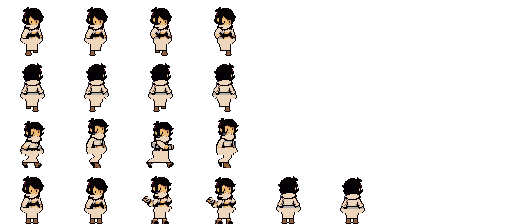
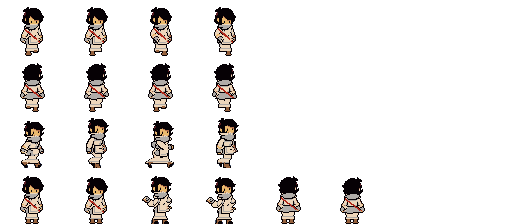
NPC: potongan baju berbeda-beda (rompi, zirah, selempang, overall, celemek, rok, celana)
Claude-Session: https://claude.ai/code/session_013SaXTJuwinpA9vu4txrWbT

diff --git a/tools/npc_from_mc.py b/tools/npc_from_mc.py
@@ -16,34 +16,35 @@ K = {'hitam': (6, 1, 5), 'marun': (90, 24, 33), 'merah': (177, 39, 26), 'zaitun'
      'biru': (62, 85, 128), 'birutua': (45, 49, 97), 'kulit': (240, 194, 113), 'oranye': (207, 115, 69), 'mawar': (172, 74, 74),
      'krem': (237, 214, 187), 'abu': (176, 172, 168), 'abutua': (98, 96, 104), 'coklat': (150, 98, 62)}
 
-# id: rambut (terang, gelap), baju (utama, bayangan), sepatu, + pilihan pakaian:
-#   rok = baju menutup kaki atas (perempuan / jubah), syal = syal tokoh utama dipertahankan (warna), celemek = warna celemek,
-#   topi = (warna, lebar pinggir) menutup puncak rambut; helm = warna menutup rambut hingga dahi.
+# id: rambut (terang, gelap), baju (utama, bayangan), sepatu, + pakaian:
+#   gaya = kemeja | rompi (warna `rompi`) | zirah | selempang (warna `aksen`) | overall (warna `aksen`) | kancing
+#   celana, kerah, sabuk, celemek = warna;  rok = 'pendek' | 'panjang' (gaun/jubah)
+#   topi = (warna, lebar pinggir);  helm = warna tudung yang menutup rambut
 NPC = {
-    'ac1':   dict(rambut=('birutua', 'hitam'), baju=('biru', 'birutua'), sepatu='birutua', rok=True, syal='zaitun'),
-    'ac2':   dict(rambut=('coklat', 'marun'), baju=('biru', 'birutua'), sepatu='coklat'),
-    'ar1':   dict(rambut=('krem', 'abu'), baju=('coklat', 'marun'), sepatu='marun', rok=True),
-    'bw1':   dict(rambut=('birutua', 'hitam'), baju=('merah', 'marun'), sepatu='coklat', syal='krem'),
-    'courier': dict(rambut=('coklat', 'marun'), baju=('zaitun', 'hijau'), sepatu='coklat', topi=('biru', 1)),
-    'gk1':   dict(rambut=('abu', 'abutua'), baju=('merah', 'marun'), sepatu='abutua', helm='abu', celemek='abu'),
-    'gk3':   dict(rambut=('zaitun', 'hijau'), baju=('hijau', 'abutua'), sepatu='coklat'),
-    'guard': dict(rambut=('abu', 'abutua'), baju=('abu', 'abutua'), sepatu='abutua', helm='abu', syal='merah'),
-    'in1':   dict(rambut=('coklat', 'marun'), baju=('krem', 'coklat'), sepatu='coklat'),
-    'merc1': dict(rambut=('oranye', 'merah'), baju=('abutua', 'hitam'), sepatu='hitam', syal='abutua'),
-    'pm1':   dict(rambut=('coklat', 'marun'), baju=('biru', 'birutua'), sepatu='coklat', topi=('biru', 2)),
-    'pm2':   dict(rambut=('abu', 'abutua'), baju=('krem', 'coklat'), sepatu='coklat'),
-    'ps1':   dict(rambut=('kulit', 'oranye'), baju=('mawar', 'marun'), sepatu='marun', rok=True),
-    'ps2':   dict(rambut=('abu', 'abutua'), baju=('coklat', 'marun'), sepatu='coklat', topi=('kulit', 3), celemek='krem'),
-    'smith': dict(rambut=('birutua', 'hitam'), baju=('coklat', 'marun'), sepatu='hitam', celemek='abutua'),
-    'tp1':   dict(rambut=('hitam', 'hitam'), baju=('krem', 'abu'), sepatu='coklat', rok=True),
-    'farmer': dict(rambut=('coklat', 'marun'), baju=('biru', 'birutua'), sepatu='coklat', topi=('kulit', 3)),
-    'gun':   dict(rambut=('coklat', 'marun'), baju=('coklat', 'marun'), sepatu='coklat', helm='kulit'),
-    'hermit': dict(rambut=('mawar', 'marun'), baju=('mawar', 'marun'), sepatu='marun', rok=True, helm='mawar'),
-    'lestari': dict(rambut=('oranye', 'merah'), baju=('birutua', 'hitam'), sepatu='hitam', rok=True),
-    'nila':  dict(rambut=('coklat', 'marun'), baju=('oranye', 'coklat'), sepatu='coklat', rok=True, helm='coklat'),
-    'ratih': dict(rambut=('abu', 'abutua'), baju=('krem', 'abu'), sepatu='abutua', rok=True),
-    'mom':   dict(rambut=('coklat', 'marun'), baju=('biru', 'birutua'), sepatu='marun', rok=True, celemek='krem'),
-    'inn':   dict(rambut=('coklat', 'marun'), baju=('hijau', 'abutua'), sepatu='coklat', celemek='krem'),
+    'ac1':   dict(rambut=('birutua', 'hitam'), baju=('biru', 'birutua'), sepatu='birutua', rok='panjang', gaya='selempang', aksen='zaitun', kerah='krem'),
+    'ac2':   dict(rambut=('coklat', 'marun'), baju=('krem', 'abu'), sepatu='coklat', gaya='rompi', rompi='biru', celana='birutua', kerah='krem'),
+    'ar1':   dict(rambut=('krem', 'abu'), baju=('coklat', 'marun'), sepatu='marun', rok='panjang', gaya='kancing', kerah='krem', sabuk='marun'),
+    'bw1':   dict(rambut=('birutua', 'hitam'), baju=('merah', 'marun'), sepatu='coklat', gaya='selempang', aksen='krem', celana='coklat'),
+    'courier': dict(rambut=('coklat', 'marun'), baju=('zaitun', 'hijau'), sepatu='coklat', topi=('biru', 1), gaya='selempang', aksen='coklat', celana='coklat'),
+    'gk1':   dict(rambut=('abu', 'abutua'), baju=('abu', 'abutua'), sepatu='abutua', helm='abu', gaya='zirah', celana='abutua', sabuk='coklat'),
+    'gk3':   dict(rambut=('zaitun', 'hijau'), baju=('hijau', 'abutua'), sepatu='coklat', gaya='rompi', rompi='coklat', celana='coklat'),
+    'guard': dict(rambut=('abu', 'abutua'), baju=('abu', 'abutua'), sepatu='abutua', helm='abu', gaya='zirah', kerah='merah', celana='merah', sabuk='coklat'),
+    'in1':   dict(rambut=('coklat', 'marun'), baju=('krem', 'coklat'), sepatu='coklat', gaya='kancing', celana='coklat', sabuk='coklat'),
+    'merc1': dict(rambut=('oranye', 'merah'), baju=('abutua', 'hitam'), sepatu='hitam', gaya='rompi', rompi='coklat', celana='abutua', sabuk='coklat'),
+    'pm1':   dict(rambut=('coklat', 'marun'), baju=('biru', 'birutua'), sepatu='coklat', topi=('biru', 2), gaya='kancing', kerah='krem', celana='birutua', sabuk='coklat'),
+    'pm2':   dict(rambut=('abu', 'abutua'), baju=('krem', 'coklat'), sepatu='coklat', gaya='rompi', rompi='hijau', celana='coklat'),
+    'ps1':   dict(rambut=('kulit', 'oranye'), baju=('mawar', 'marun'), sepatu='marun', rok='pendek', kerah='krem', sabuk='krem'),
+    'ps2':   dict(rambut=('abu', 'abutua'), baju=('coklat', 'marun'), sepatu='coklat', topi=('kulit', 3), celemek='krem', celana='coklat'),
+    'smith': dict(rambut=('birutua', 'hitam'), baju=('krem', 'coklat'), sepatu='hitam', celemek='coklat', celana='abutua'),
+    'tp1':   dict(rambut=('hitam', 'hitam'), baju=('krem', 'abu'), sepatu='coklat', rok='panjang', gaya='selempang', aksen='merah'),
+    'farmer': dict(rambut=('coklat', 'marun'), baju=('krem', 'abu'), sepatu='coklat', topi=('kulit', 3), gaya='overall', aksen='biru', celana='biru'),
+    'gun':   dict(rambut=('coklat', 'marun'), baju=('coklat', 'marun'), sepatu='coklat', helm='kulit', gaya='rompi', rompi='abutua', celana='abutua', sabuk='hitam'),
+    'hermit': dict(rambut=('mawar', 'marun'), baju=('mawar', 'marun'), sepatu='marun', rok='panjang', helm='mawar', sabuk='krem'),
+    'lestari': dict(rambut=('oranye', 'merah'), baju=('birutua', 'hitam'), sepatu='hitam', rok='panjang', kerah='krem', gaya='kancing'),
+    'nila':  dict(rambut=('coklat', 'marun'), baju=('oranye', 'coklat'), sepatu='coklat', rok='pendek', helm='coklat', sabuk='coklat'),
+    'ratih': dict(rambut=('abu', 'abutua'), baju=('krem', 'abu'), sepatu='abutua', rok='panjang', gaya='rompi', rompi='mawar'),
+    'mom':   dict(rambut=('coklat', 'marun'), baju=('biru', 'birutua'), sepatu='marun', rok='panjang', celemek='krem'),
+    'inn':   dict(rambut=('coklat', 'marun'), baju=('hijau', 'abutua'), sepatu='coklat', celemek='krem', celana='coklat', kerah='krem'),
 }
 
 
@@ -59,7 +60,7 @@ def frames(A):
     return [wd, wu, ws, idle]
 
 
-def recolor(a, o):
+def recolor(a, o, facing):
     hl, hd = (K[c] for c in o['rambut']); sh, shd = (K[c] for c in o['baju']); bt = K[o['sepatu']]
     BLK = (6, 1, 5, 255)
     b = a.copy()
@@ -85,29 +86,7 @@ def recolor(a, o):
     feet = yy > bot - 6
     b[eq(HAIR_L) & head] = (*hl, 255)
     b[(eq(HAIR_D) | eq(HAIR_S1) | eq(HAIR_S2)) & head] = (*hd, 255)
-    b[eq(TUNIC) & ~head] = (*sh, 255)
-    mar = eq(MAROON) & ~head
-    b[mar & ~feet] = (*shd, 255)
-    b[mar & feet] = (*bt, 255)
-    sy = o.get('syal')
-    b[mar & scarf] = (*(K[sy] if sy else sh), 255)            # syal → warna syal, atau kerah baju
-    ap = o.get('celemek')
-    apron = (eq(CREAM) | eq(HAIR_L) | eq(HAIR_D)) & ~head
-    b[apron] = (*(K[ap] if ap else sh), 255)                   # tanpa celemek → baju polos
-    if ap:
-        b[(eq(HAIR_L) | eq(HAIR_D)) & ~head] = (*K[ap], 255)
-    if o.get('rok'):   # rok/jubah: baju menutup kaki hingga 5 baris di atas telapak
-        for y in range(neck + 14, bot - 4):
-            xs = np.nonzero(b[y, :, 3] > 0)[0]
-            if len(xs) < 2:
-                continue
-            x0, x1 = xs[0], xs[-1]
-            b[y, x0 + 1:x1] = (*sh, 255)
-            b[y, x0] = BLK; b[y, x1] = BLK
-        y = bot - 4
-        xs = np.nonzero(b[y - 1, :, 3] > 0)[0]
-        if len(xs):
-            b[y - 1, xs[0]:xs[-1] + 1] = BLK
+    paint_body(a, b, o, facing, top, neck, bot)
     hm = o.get('helm')
     if hm:   # tudung/helm: rambut di atas mata jadi warna helm
         eyes = [y for y in range(top, neck) if ((rgb[y] == (6, 1, 5)).all(-1) & skin[y].any()).any()]
@@ -131,11 +110,121 @@ def recolor(a, o):
     return b
 
 
+FACING = [['d'] * 4, ['u'] * 4, ['s'] * 4, ['d', 'd', 's', 's', 'u', 'u']]
+
+
+def nb4(m):
+    p = np.pad(m, 1)
+    return p[:-2, 1:-1] | p[2:, 1:-1] | p[1:-1, :-2] | p[1:-1, 2:]
+
+
+def paint_body(a, b, o, facing, top, neck, bot):
+    """Cat ulang badan (leher→pinggul) dengan pakaian NPC sendiri; tangan, kepala, kaki tetap tubuh tokoh utama."""
+    BLK = np.array((6, 1, 5, 255), np.uint8)
+    C = lambda k: np.array((*K[k], 255), np.uint8)
+    main, shade = C(o['baju'][0]), C(o['baju'][1])
+    rgb = a[..., :3]; al = a[..., 3] > 0
+    eq = lambda c: (rgb == c).all(-1) & al
+    H_, W_ = al.shape
+    yy, xx = np.mgrid[:H_, :W_]
+    # pinggul = baris terakhir (dari leher) yang masih selebar badan (≥12 px bersambung)
+    hip = neck + 10
+    for y in range(neck, bot):
+        row = al[y].astype(int)
+        runs = np.diff(np.concatenate(([0], row, [0])))
+        st, en = np.nonzero(runs == 1)[0], np.nonzero(runs == -1)[0]
+        if len(st) and (en - st).max() >= 12:
+            hip = y
+        elif y > neck + 8:
+            break
+    rows = (yy >= neck - 1) & (yy <= hip)
+    xs = np.nonzero(al[rows.any(1)].any(0))[0] if rows.any() else np.array([20, 40])
+    bx0, bx1 = xs[0], xs[-1]
+    skin = eq((233, 185, 110)) | eq((183, 115, 79)) | eq((236, 206, 172)) | eq((145, 96, 80)) | eq((112, 59, 46))
+    hand = skin & ((xx <= bx0 + 4) | (xx >= bx1 - 4)) & (yy > neck + 4)
+    hand = hand | (nb4(hand) & skin)
+    T = al & rows & ~hand
+    edge = T & nb4(~al)
+    F = eq((6, 1, 5)); E = eq((84, 25, 32)); J = eq((163, 41, 28))
+    line = F & nb4(J | E) & ~edge
+    b[T] = main
+    b[T & E] = shade
+    b[T & line] = BLK
+    b[edge] = BLK
+    inner = T & ~edge
+    cx = (bx0 + bx1) // 2
+    face = facing
+    def band(m, col):
+        b[m & inner] = col
+    # kerah
+    if o.get('kerah'):
+        band((yy >= neck - 1) & (yy <= neck), C(o['kerah']))
+    # badan berbagai potongan
+    st = o.get('gaya', 'kemeja')
+    if st == 'rompi':
+        if face == 'd':
+            band((abs(xx - cx) >= 2) & (yy >= neck + 1) & (yy <= hip - 1), C(o['rompi']))
+        else:
+            band((yy >= neck + 1) & (yy <= hip - 1) & ~(J | E) if face == 's' else (yy >= neck + 1) & (yy <= hip - 1), C(o['rompi']))
+    elif st == 'zirah':
+        band(((yy - neck) % 3 == 2) & (yy > neck + 1), shade)
+        band((yy >= neck) & (yy <= neck + 1), C('abu'))
+    elif st == 'selempang' and face != 's':
+        d = (xx - bx0) - (yy - neck) * (bx1 - bx0) / max(1, hip - neck)
+        band((abs(d) <= 1.2), C(o['aksen']))
+    elif st == 'overall' and face == 'd':
+        band(((xx == cx - 3) | (xx == cx + 3)) & (yy >= neck) & (yy < neck + 6), C(o['aksen']))
+        band((abs(xx - cx) <= 3) & (yy >= neck + 6), C(o['aksen']))
+    elif st == 'kancing' and face == 'd':
+        band((xx == cx) & (yy > neck) & ((yy - neck) % 3 == 1), shade)
+    # celemek di depan
+    ap = o.get('celemek')
+    if ap and face != 'u':
+        if face == 'd':
+            m = (abs(xx - cx) <= 3) & (yy >= neck + 3) & al & (yy <= hip + 3)
+        else:
+            m = np.zeros_like(al)
+            for y in range(neck + 3, hip + 4):
+                xr = np.nonzero(al[y])[0]
+                if len(xr):
+                    x0 = xr[0]   # menghadap kiri: depan = sisi kiri
+                    m[y, x0 + 1:x0 + 4] = True
+        b[m & ~hand] = C(ap)
+        b[m & ~hand & nb4(~m) & (abs(xx - cx) <= 4 if face == 'd' else True) & (yy > neck + 3)] = np.where(face == 'd', 1, 1) * BLK
+    # sabuk
+    if o.get('sabuk'):
+        band(yy == hip - 1, C(o['sabuk']))
+        if face == 'd':
+            band((yy == hip - 1) & (abs(xx - cx) <= 1), C('zaitun'))
+    # kaki: celana
+    legs = al & (yy > hip) & (yy < bot - 4)
+    pants = o.get('celana')
+    if pants:
+        lk = legs & (eq((233, 185, 110)) | eq((183, 115, 79)) | eq((236, 206, 172)) | eq((84, 25, 32)) | eq((145, 96, 80)) | eq((112, 59, 46)))
+        b[lk] = C(pants)
+    if o.get('rok'):   # rok / jubah: baju turun menutup kaki, sedikit melebar
+        rl = bot - 4 if o['rok'] == 'panjang' else hip + 6
+        for y in range(hip + 1, rl):
+            xr = np.nonzero(al[y])[0]
+            if len(xr) < 2:
+                continue
+            fl = 1 if y > hip + 3 else 0
+            x0, x1 = max(0, xr[0] - fl), min(W_ - 1, xr[-1] + fl)
+            b[y, x0 + 1:x1] = main if (y - hip) % 4 else shade
+            b[y, x0] = BLK; b[y, x1] = BLK
+        xr = np.nonzero(b[rl - 1, :, 3] > 0)[0]
+        if len(xr):
+            b[rl, xr[0]:xr[-1] + 1] = BLK
+    boots = al & (yy >= hip + 1) & (eq((84, 25, 32)) | eq((145, 96, 80))) & ~(legs if pants else np.zeros_like(al))
+    b[boots & (yy >= bot - 5)] = C(o['sepatu'])
+    return hip
+
+
 def build(nid, spec, A):
     out = np.zeros((4 * FH, 8 * FW, 4), np.uint8)
     for r, row in enumerate(frames(A)):
         for c, f in enumerate(row):
-            out[r * FH:(r + 1) * FH, c * FW:(c + 1) * FW] = recolor(f, spec)
+            out[r * FH:(r + 1) * FH, c * FW:(c + 1) * FW] = recolor(f, spec, FACING[r][c])
     Image.fromarray(out).save(OUT % nid)
 
 

diff --git a/AGENTS.md b/AGENTS.md
@@ -40,4 +40,4 @@ Proyek kini berjalan sepenuhnya di **Godot 4.7.2** (`godot/project.godot`, rende
 - **Jembatan (2026-11-27):** 8 jembatan kayu (Danau 1, Hutan 1, Sungai 4, Rawa 1, Salju 1) dari posisi & gambar versi web lama (`tools/bridges/`), ditempel ke gambar tanah oleh `seam_ground.py`, yang juga menulis `godot/core/bridges_data.gd`; `BenuaWorld` menghapus petak air (tabrakan) di bawahnya. Petak air TileMap tak terlihat (air = gambar tanah). Uji: `tests/_probe_bridges.gd`.
 - **Pose merapal (2026-11-27):** `hero_mc2.png` baris 25–27 = cast bawah/atas/samping (samping: badan atas frame jalan bertangan maju di atas kaki diam; bawah/atas: badan naik-turun 1 px). `Player.try_cast_skill` memutar `cast_*` 0,34 dtk (`cast_anim_t` menahan anim diam/jalan). Game Godot belum punya senjata busur, jadi pose busur belum dipakai. Uji: `tests/_probe_cast.gd`.
 - **Palet NPC (2026-11-27):** 35 sprite NPC yang dipakai game disamakan ke palet tokoh utama: 11 warna `CHARACTER_STYLE.md` + abu muda, abu tua, cokelat (keputusan pemilik, untuk uban/zirah/kulit gelap), lalu dibersihkan (`tools/sprite_clean.py`). `python3 tools/npc_palette.py [--preview]`; aslinya di `tools/npc_src/` (sumber tetap, jalankan ulang aman). Tinggi NPC masih beragam (25–47 px).
-- **NPC bertubuh tokoh utama (2026-11-27):** 24 NPC kini memakai lembar `npc_mc_<id>.png` (512×224, sel 64×56) yang dibangun dari tubuh & animasi `hero_mc2.png` dengan rambut/baju/sepatu/rok/syal/celemek/topi/helm berbeda per NPC (`python3 tools/npc_from_mc.py`, atur di dict `NPC`). Wajah masih wajah tokoh utama (keputusan pemilik, sementara). `npc.gd` punya cabang format 512×224.
+- **NPC bertubuh tokoh utama (2026-11-27):** 24 NPC kini memakai lembar `npc_mc_<id>.png` (512×224, sel 64×56) yang dibangun dari tubuh & animasi `hero_mc2.png` dengan badan dicat ulang: potongan baju berbeda per NPC (kemeja, rompi, zirah, selempang, overall, kancing, celemek, rok/jubah, celana, kerah, sabuk, topi, tudung) (`python3 tools/npc_from_mc.py`, atur di dict `NPC`). Wajah masih wajah tokoh utama (keputusan pemilik, sementara). `npc.gd` punya cabang format 512×224.
